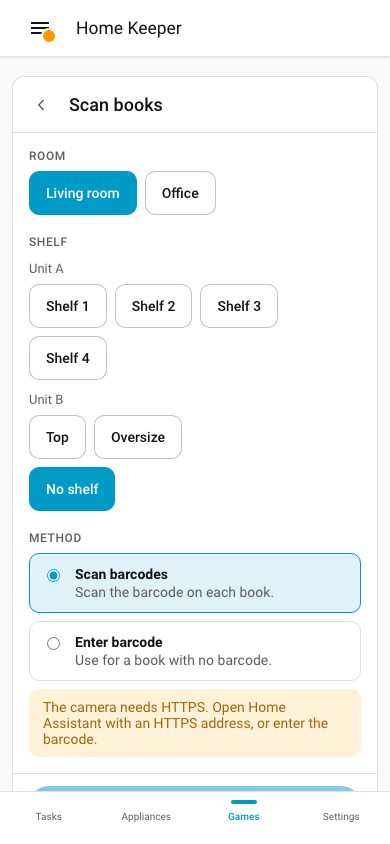
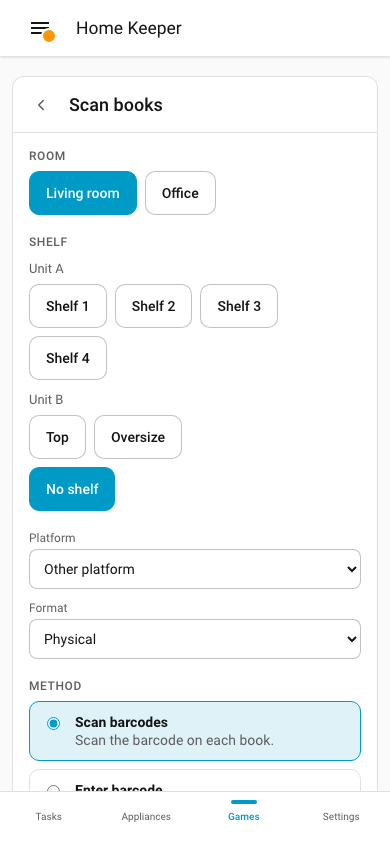
Capture the copy dialog and the scan setup, and tour the copy fields

Changed region(s): [[0.0615, 0.6161, 0.9231, 0.955]]

diff --git a/tests/e2e/walkthrough.capture.ts b/tests/e2e/walkthrough.capture.ts
@@ -79,6 +79,16 @@ test('record the Library walkthrough', async ({ browser }) => {
     await expect(tab.locator('.hkl-star.on')).toHaveCount(4);
     await beat(page);
 
+    // 3b. A copy has a platform, a format and the barcode of its case.
+    const editCopy = tab.locator('[data-k^="ec-"]').first();
+    await editCopy.scrollIntoViewIfNeeded();
+    await editCopy.click();
+    const copyDialog = tab.locator('.hkl-dialog');
+    await expect(copyDialog.locator('[name="platform"]')).toBeVisible();
+    await beat(page, 2);
+    await copyDialog.locator('[data-k="d-cancel"]').click();
+    await expect(copyDialog).toHaveCount(0);
+
     // 4. Scan barcodes into a shelf.
     const state = await adminState();
     const office = state.rooms.find((r: { name: string }) => r.name === 'Office');
@@ -90,6 +100,8 @@ test('record the Library walkthrough', async ({ browser }) => {
     await beat(page);
     await tab.locator('[data-k="m-manual"]').check();
     await expect(tab.locator('[data-k="m-manual"]')).toBeChecked();
+    // Each copy that the scan adds gets the platform and the format of the setup.
+    await tab.locator('[data-k="sc-platform"]').selectOption('switch');
     await beat(page);
     await tab.locator('[data-k="scan-start"]').click();
     await expect(tab.locator('[data-k="barcode-input"]')).toBeVisible();

diff --git a/tests/e2e/tests/games-tab.spec.ts b/tests/e2e/tests/games-tab.spec.ts
@@ -21,9 +21,10 @@ test.describe('Games tab', { tag: '@responsive' }, () => {
     const state = await adminState();
     const copy = state.copies.find((c: { game_id: string; barcode: string | null }) => c.game_id === game.id && c.barcode);
     const tab = await openTab(page, `/games/${game.id}`);
-    const details = tab.locator('.hkl-copy').first();
+    // Only the copy with the barcode shows it.
+    const details = tab.locator('.hkl-copy').filter({ hasText: copy.barcode });
+    await expect(details).toHaveCount(1);
     await expect(details).toContainText('Platform');
-    await expect(details).toContainText(copy.barcode);
     await tab.locator(`[data-k="ec-${copy.id}"]`).click();
     const dialog = tab.locator('.hkl-dialog');
     await expect(dialog.locator('[name="platform"]')).toHaveValue(copy.platform);

diff --git a/tests/e2e/tests/loans.spec.ts b/tests/e2e/tests/loans.spec.ts
@@ -59,6 +59,6 @@ test.describe('Loans', { tag: '@responsive' }, () => {
     await expect(tab.locator('.hkl-listrow')).toHaveCount(out.length);
     await tab.locator('[data-k="lt-in"]').click();
     await expect(page).toHaveURL(/\/loans;tab=in$/);
-    await expect(tab.locator('.hkl-listrow').filter({ hasText: 'Spinning Silver' })).toContainText('Seattle Public Library · Alex · Paperback · Reading');
+    await expect(tab.locator('.hkl-listrow').filter({ hasText: 'Spinning Silver' })).toContainText('Seattle Public Library · Alex · Physical · Reading');
   });
 });
